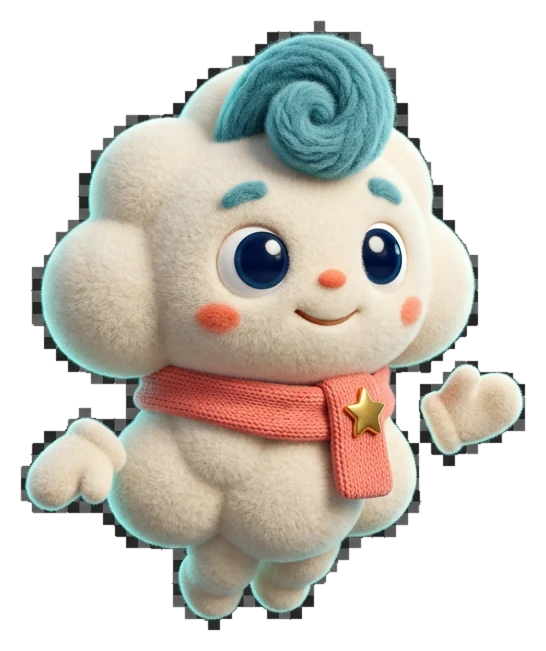
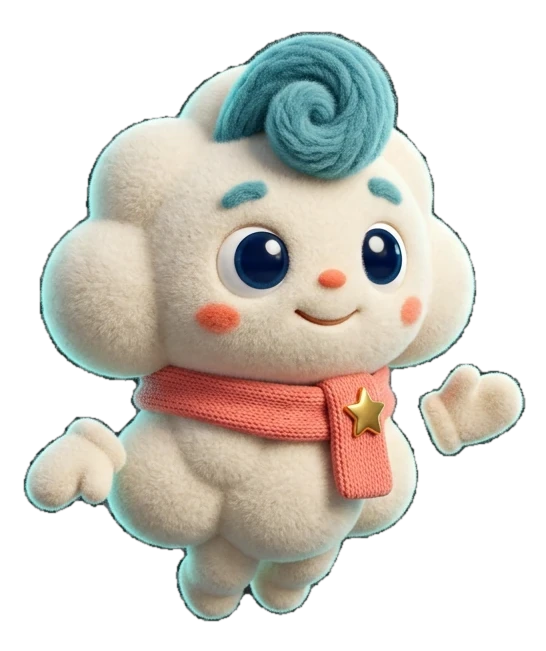
fix(brand): clean the Felak matte and guard it with a test
The splash render showed a grey checkerboard baked into the mascot edge: the
older alpha only removed whole squares, leaving a dark ring around the fur,
hands and scarf. The matte is now derived from a border flood-fill of the
checkerboard, closed with a 5px dilate/erode so no square bites into the
character, and softened 0.6px. A regression test counts dark-neutral opaque
pixels (5464 -> 207) so this cannot silently return.

diff --git a/test/brand_visual_assets_test.dart b/test/brand_visual_assets_test.dart
@@ -54,6 +54,27 @@ void main() {
     expect(rgba, isNotNull);
     // The cut-out has real alpha, not a checkerboard baked into the image.
     expect(rgba!.getUint8(3), 0);
+
+    // A grey checkerboard would survive as a ring of dark, neutral, fully
+    // opaque pixels around the silhouette. The clean matte keeps only a few
+    // hundred such pixels (eye shading); the old asset had thousands.
+    var darkNeutralOpaque = 0;
+    for (var i = 0; i < rgba.lengthInBytes; i += 4) {
+      final r = rgba.getUint8(i);
+      final g = rgba.getUint8(i + 1);
+      final b = rgba.getUint8(i + 2);
+      final a = rgba.getUint8(i + 3);
+      if (a <= 200) continue;
+      final spread = [r, g, b].reduce((x, y) => x > y ? x : y) -
+          [r, g, b].reduce((x, y) => x < y ? x : y);
+      final luminance = (r * 299 + g * 587 + b * 114) ~/ 1000;
+      if (spread <= 12 && luminance <= 80) darkNeutralOpaque++;
+    }
+    expect(
+      darkNeutralOpaque,
+      lessThan(800),
+      reason: 'لبهٔ برش فِلَک هنوز بقایای صفحهشطرنجی/خاکستری دارد.',
+    );
     mascotCodec.dispose();
   });
 

diff --git a/asset/images/ASSET_CREDITS.md b/asset/images/ASSET_CREDITS.md
@@ -9,7 +9,7 @@ as a local Flutter asset; nothing is fetched at runtime.
 
 | Asset | Content | Pipeline | Runtime classification |
 | --- | --- | --- | --- |
-| `flak_3d.webp` | Felak, Kartoniya's cloud mascot | Original 3D-style render, isolated from its generated checkerboard backdrop, alpha-matted, then converted to WebP | Pre-rendered 3D still (not a rigged model) |
+| `flak_3d.webp` | Felak, Kartoniya's cloud mascot | Original 3D-style render. Phase 6 re-matte: the generated grey checkerboard was flood-filled out, the silhouette was closed with a 5 px dilate/erode pass so no checkerboard bites the scarf or hands, and the alpha edge was softened 0.6 px before WebP encoding (alpha quality 100). | Pre-rendered 3D still (not a rigged model) |
 | `flak_reading_scene.webp` | Felak reading a picture book | Original 3D-style scene rendered with the mascot as an identity reference, resized and compressed to WebP | Pre-rendered 3D still (alternate scene/pose) |
 | `cloudworld_hero.webp` | Floating sky-island environment | Original 3D-style storybook diorama render, resized and compressed to WebP | Pre-rendered 3D still |
 | `storybook_garden.webp` | Storybook garden environment | Original 3D-style felt-and-clay diorama render, resized and compressed to WebP | Pre-rendered 3D still |
